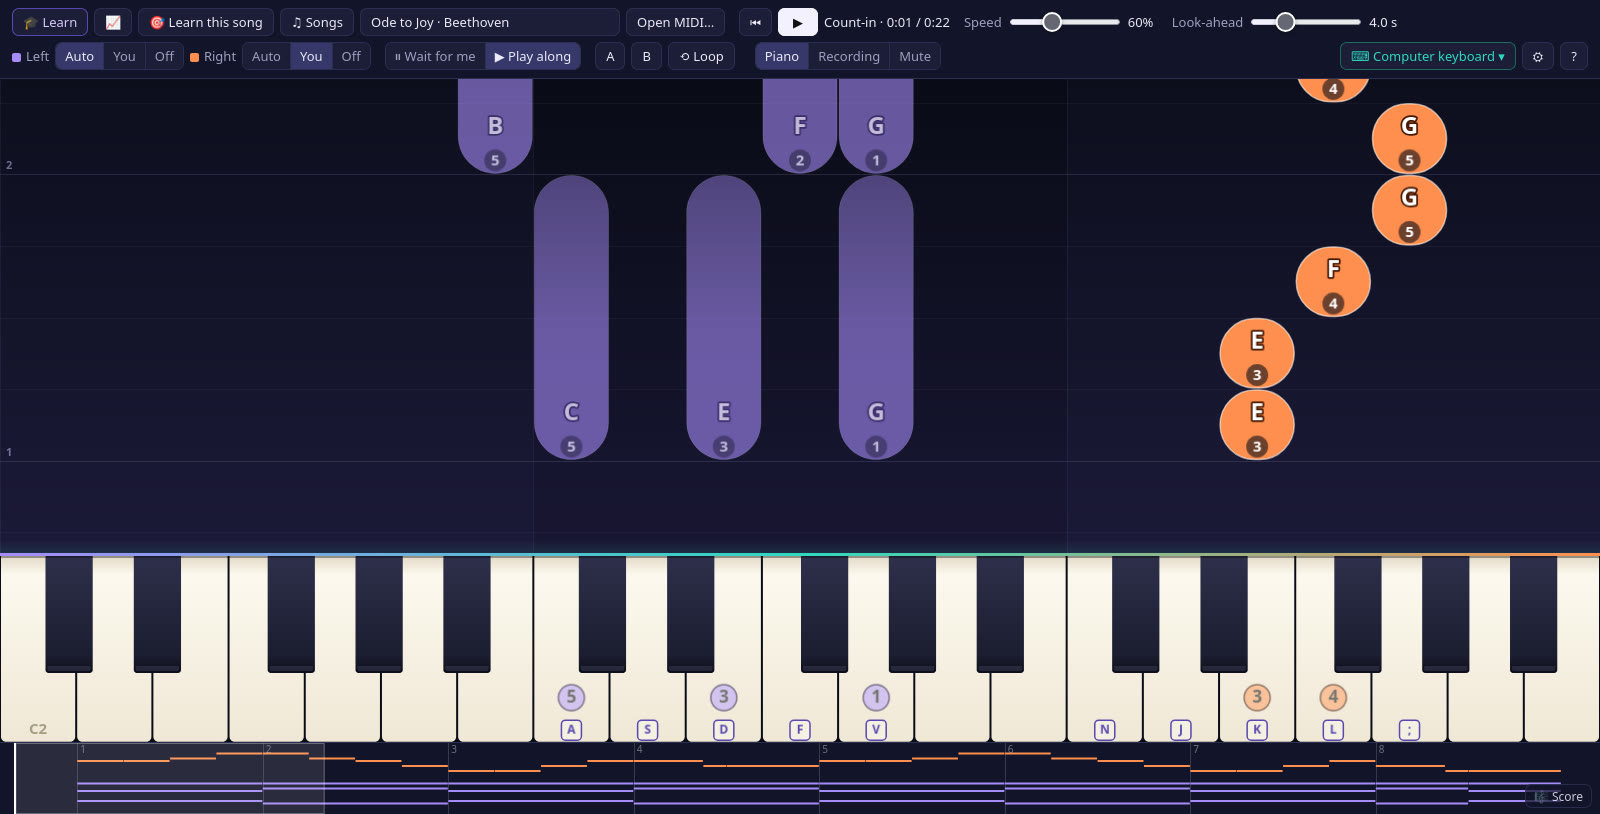
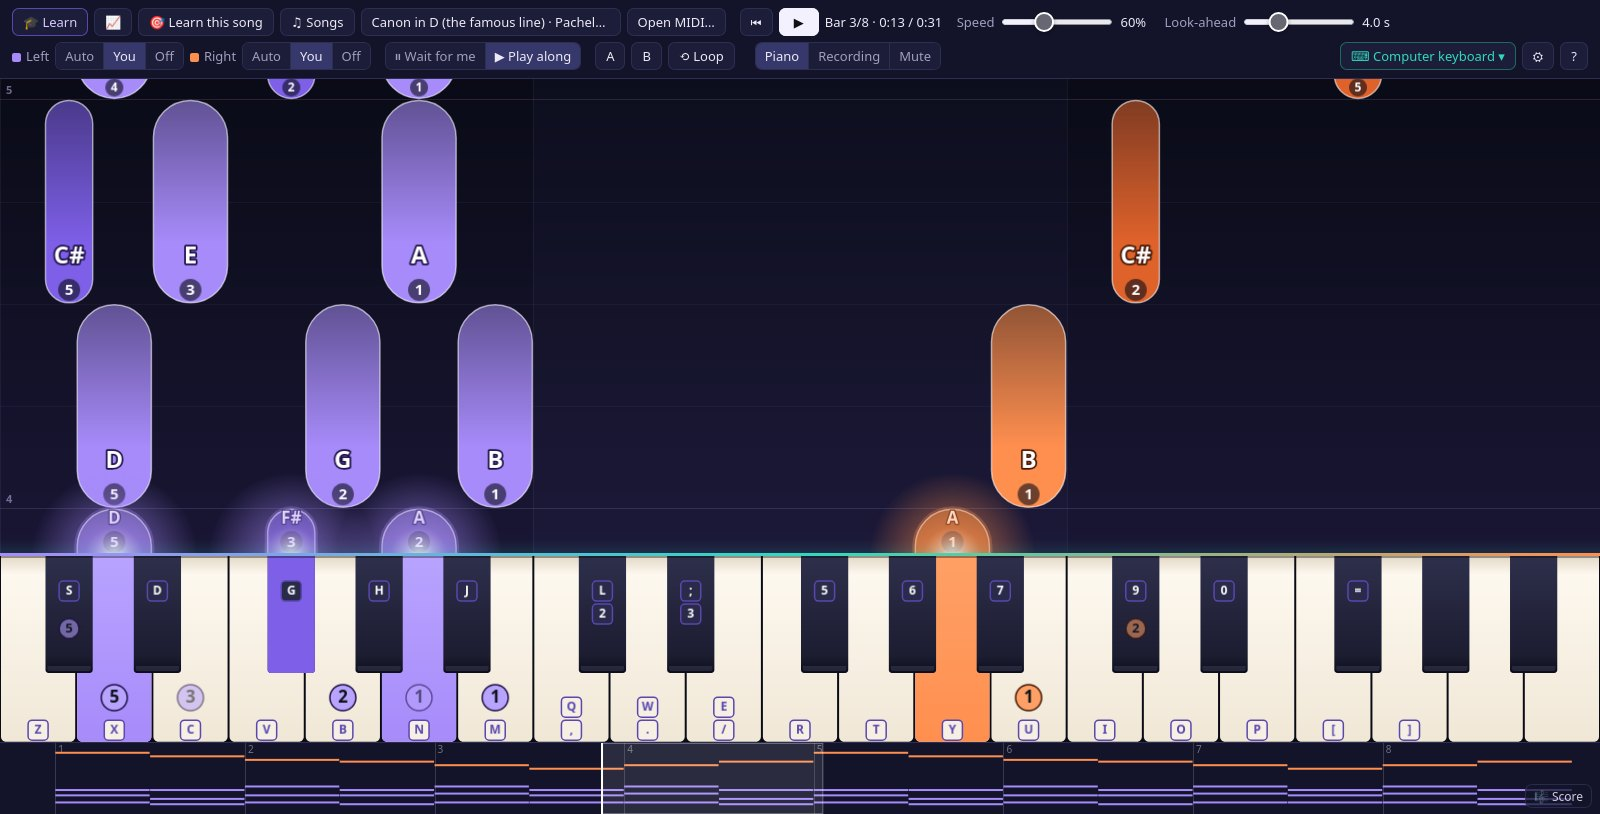
Piano Trainer: the computer keyboard as a piano
The keyboard paragraph and picture now show the two-row piano layout (Canon in D, a keycap on
every key), alongside the home-row fingers for the early lessons.

diff --git a/src/content/projects/piano-trainer/index.md b/src/content/projects/piano-trainer/index.md
@@ -29,9 +29,9 @@ The first time you open it, a short welcome tour appears straight away. It asks 
 
 ![The welcome tour asking how the piano is connected: a cable, a microphone, a USB-MIDI cable, the keys on the screen, the computer keyboard, or no piano right now](./welcome.jpg)
 
-No piano to hand? The computer keyboard works too. The home row becomes two hands in a five-finger position, thumbs on V and N, and each key is a finger, so it plays whatever the fingering gives that finger. That limits it to songs whose hands stay in one place: eleven in the library and about half of the course's exercises, including nearly all of the first two weeks. For the rest, you play along and tell the teacher how it went.
+No piano to hand? The computer keyboard works too, two ways. For the early lessons the home row becomes two hands in a five-finger position, thumbs on V and N, and each key is a finger, so you learn the fingering as you go. For everything else, two rows become two and a half octaves of a piano, the layout music programs use: Z to / and Q to ] are the white keys, and the row above each has the black keys. The rows sit where the song is, Page Up and Page Down move them, and a note beyond them is played by its key an octave away. By default it switches between the two by itself, so the whole course and every song in the library can be played from a laptop.
 
-![Ode to Joy with the computer keyboard: a keycap on each piano key it plays, A S D F V for the left hand and N J K L ; for the right](./keyboard.jpg)
+![Canon in D on the computer keyboard: a keycap on every piano key, Z X C V and Q W E R on the white keys, S D G H and 2 3 5 6 on the black ones, with the keys to play next lit](./keyboard.jpg)
 
 It works on a phone or a tablet too. On a small screen the toolbar is one row with the song's name, and the rest of the controls sit in a ⋯ panel, grouped and sized for a finger. The teacher's panel moves under the notes (or beside them, with the phone on its side) and keeps Next within reach of your thumb, and the keyboard narrows to the hand you're playing so the keys are big enough to tap. The keys on the screen can be the piano, with chords and a finger sliding across the keys, or the phone's own microphone can listen from the piano's music stand. Added to the home screen, it opens full screen like an app, and the screen stays on while you play.
 
